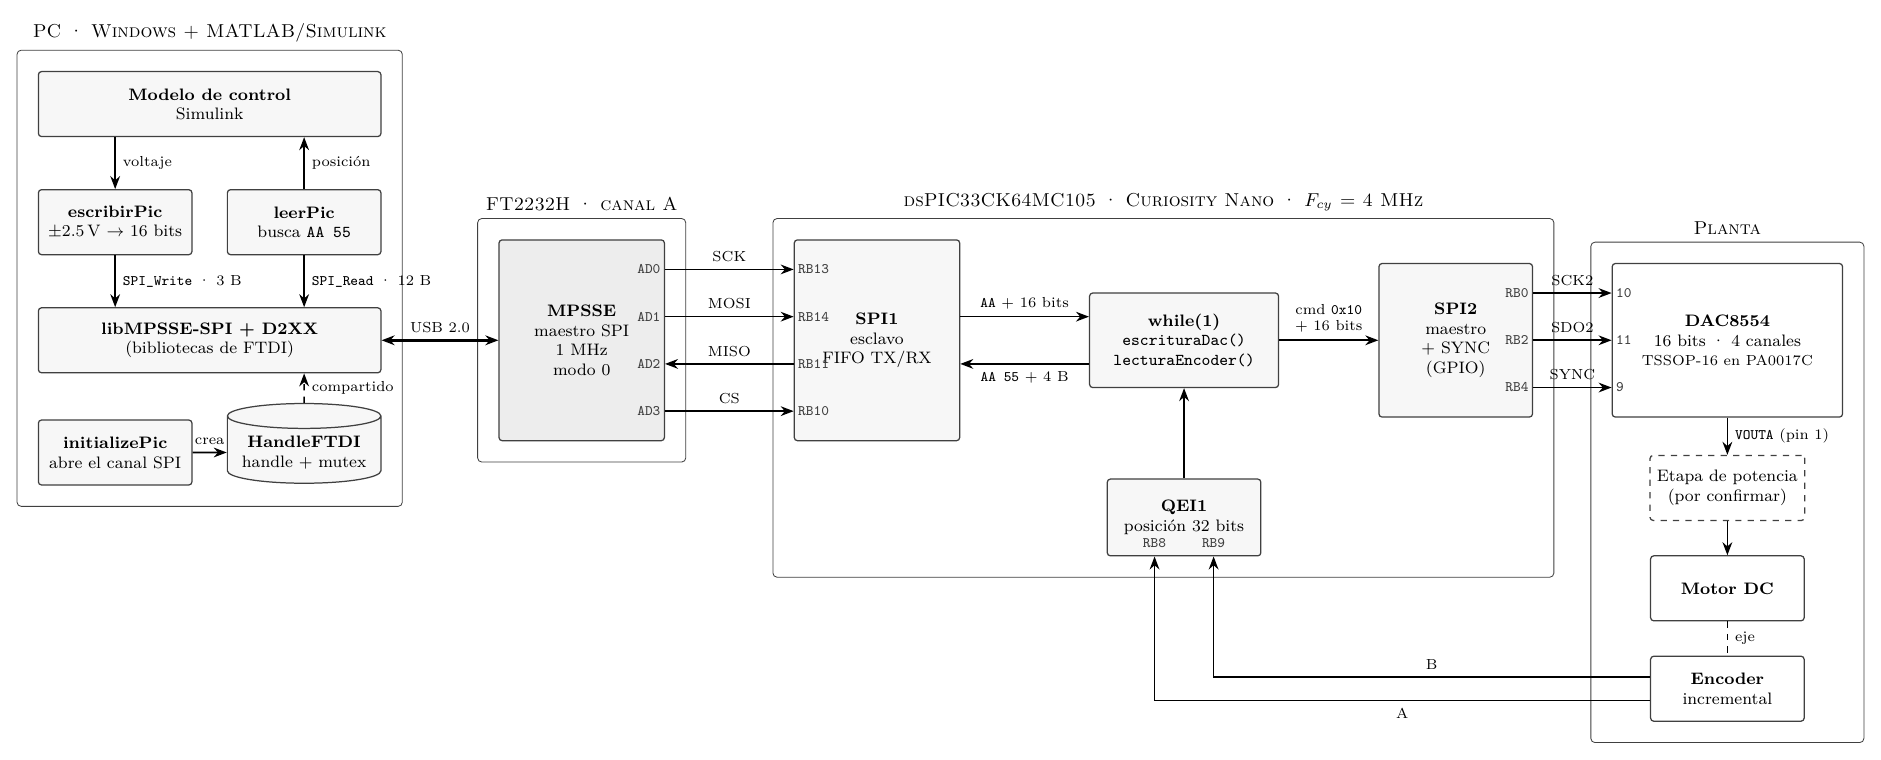
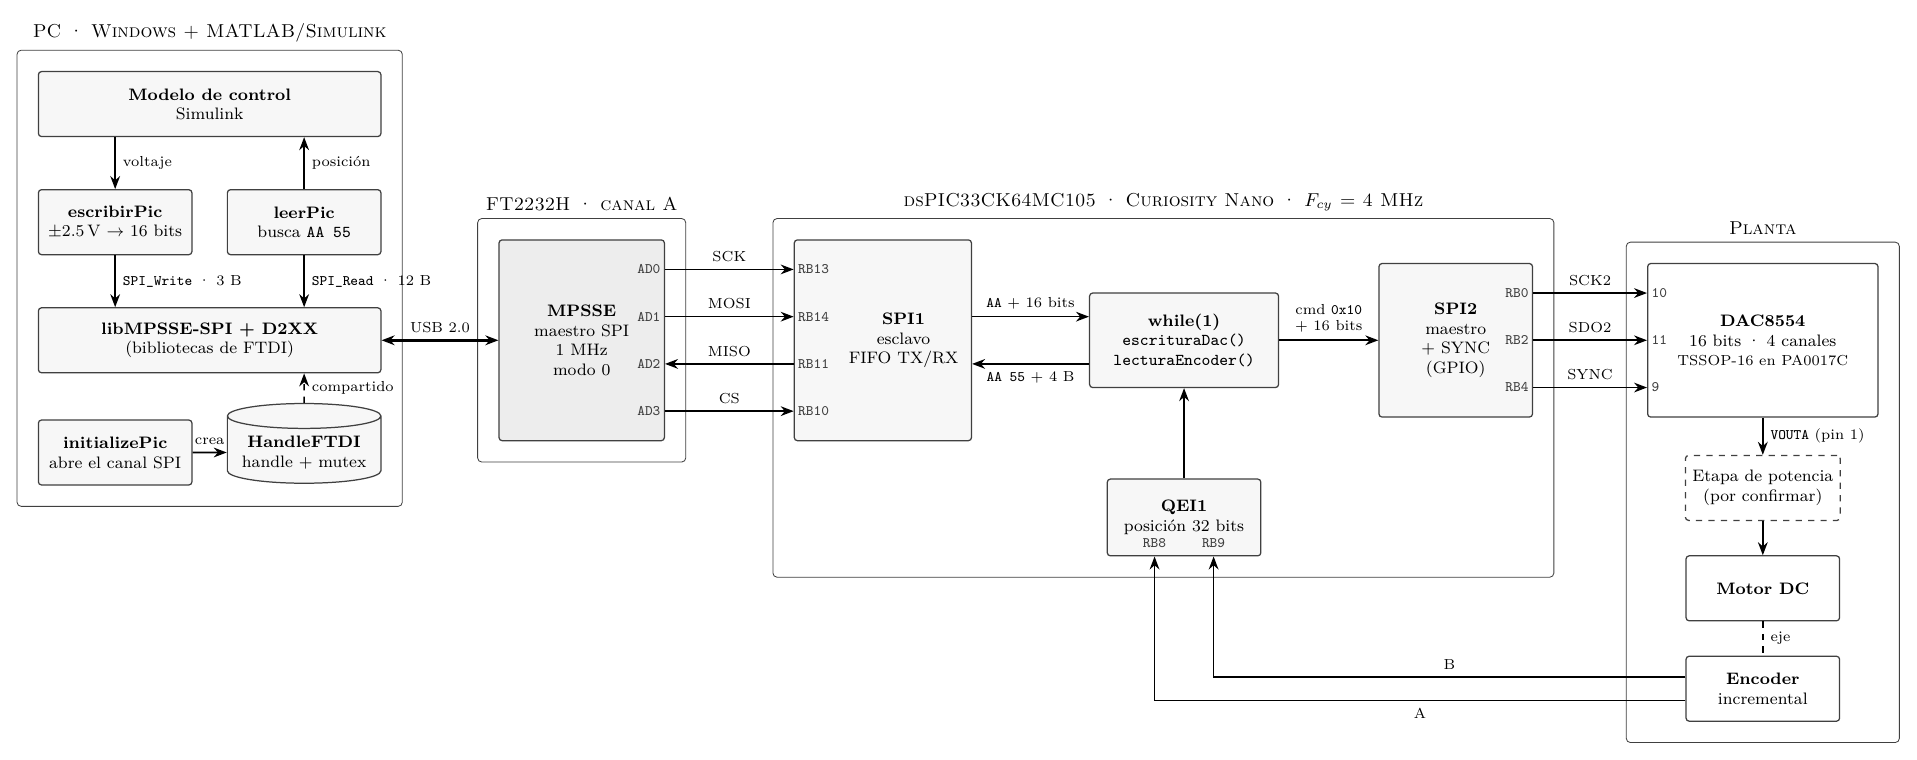
Corrige etiquetas encimadas en el diagrama de arquitectura
- SPI1: desplaza el texto del bloque para no encimarse con RB11.
- Planta: recorre la columna para separar SCK2, SDO2 y SYNC del borde.
- docs/propuesta.pdf: regenerado con el diagrama corregido.

diff --git a/docs/arquitectura.tex b/docs/arquitectura.tex
@@ -78,7 +78,9 @@
 % =========================================================================
 % dsPIC33CK64MC105
 % =========================================================================
-\node[mcu, minimum height=3.4cm, minimum width=2.8cm] (spi1) at (13.6,2.2)
+\node[mcu, minimum height=3.4cm, minimum width=3.0cm] (spi1) at (13.7,2.2) {};
+% Texto desplazado a la derecha para no encimarse con las etiquetas de pines
+\node[align=center, font=\footnotesize] at ($(spi1.center)+(0.35,0)$)
   {\textbf{SPI1}\\esclavo\\FIFO TX/RX};
 \foreach \dy/\p in {1.2/RB13, 0.4/RB14, -0.4/RB11, -1.2/RB10}
   \node[pin, anchor=west] at ($(spi1.west)+(0,\dy)$) {\p};
@@ -116,13 +118,13 @@
 % =========================================================================
 % Planta
 % =========================================================================
-\node[pl, minimum height=2.6cm, minimum width=3.9cm] (dac) at (28.0,2.2)
+\node[pl, minimum height=2.6cm, minimum width=3.9cm] (dac) at (28.6,2.2)
   {\textbf{DAC8554}\\16 bits · 4 canales\\{\scriptsize TSSOP-16 en PA0017C}};
 \foreach \dy/\p in {0.8/10, 0/11, -0.8/9}
   \node[pin, anchor=west] at ($(dac.west)+(0,\dy)$) {\p};
-\node[tbd] (amp) at (28.0,-0.3) {Etapa de potencia\\(por confirmar)};
-\node[pl]  (mot) at (28.0,-2.0) {\textbf{Motor DC}};
-\node[pl]  (enc) at (28.0,-3.7) {\textbf{Encoder}\\incremental};
+\node[tbd] (amp) at (28.6,-0.3) {Etapa de potencia\\(por confirmar)};
+\node[pl]  (mot) at (28.6,-2.0) {\textbf{Motor DC}};
+\node[pl]  (enc) at (28.6,-3.7) {\textbf{Encoder}\\incremental};
 
 \draw[sig] (dac.south) -- node[labr] {\texttt{VOUTA} (pin 1)} (amp.north);
 \draw[sig] (amp.south) -- (mot.north);
